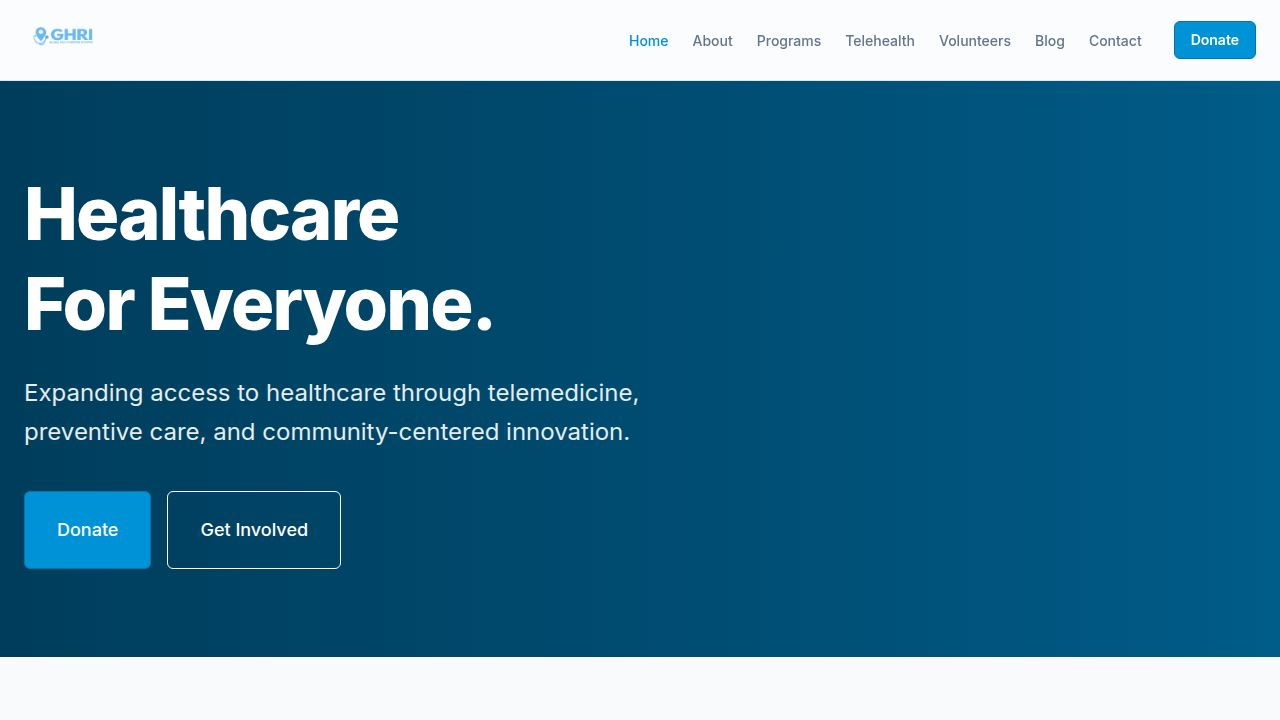
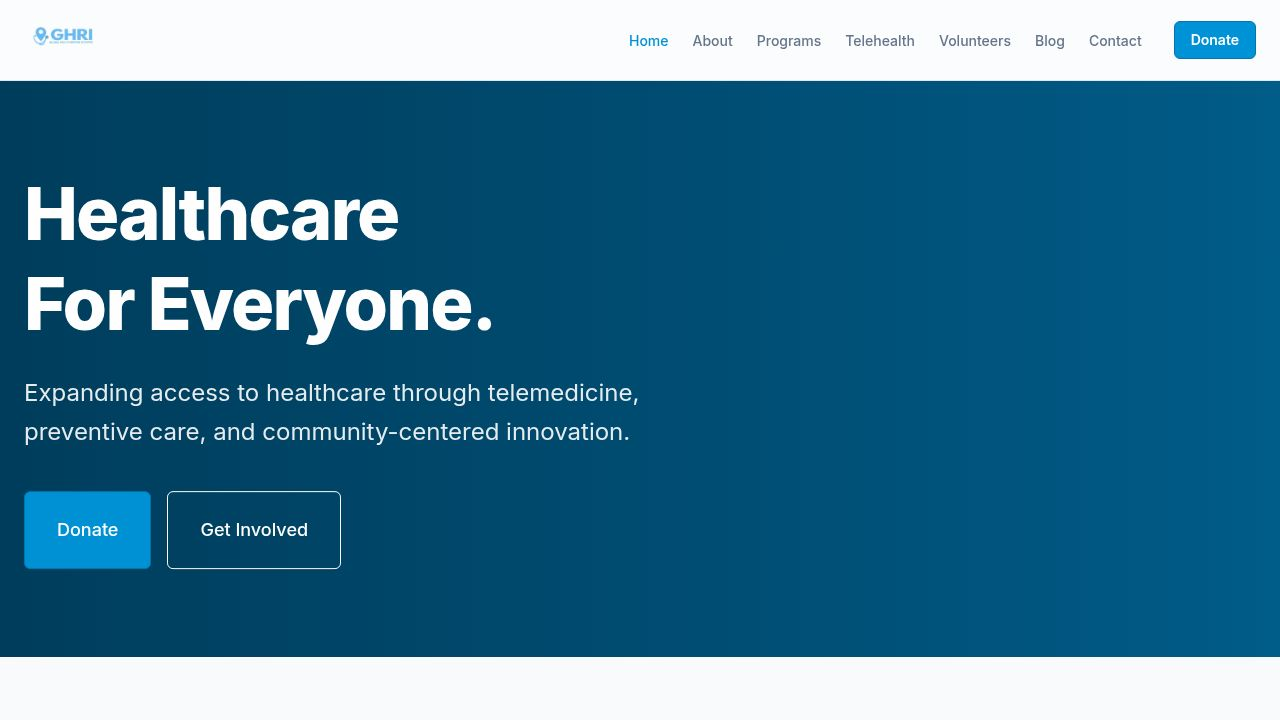
Update volunteer button to redirect to the volunteer sign-up page
Modify the href attribute of the Link component wrapping the "Volunteer" button on the home page from "/get-involved" to "/volunteers".

Replit-Commit-Author: Agent
Replit-Commit-Session-Id: 519b77ae-f93b-43f8-87ee-0258954cbde3
Replit-Commit-Checkpoint-Type: full_checkpoint
Replit-Commit-Event-Id: 7589ce43-25b3-4d6c-909f-560148d13e96
Replit-Commit-Screenshot-Url: https://storage.googleapis.com/screenshot-production-us-central1/812eb5c6-f2f7-4684-9937-612a52748455/519b77ae-f93b-43f8-87ee-0258954cbde3/5Bv1ZDT
Replit-Helium-Checkpoint-Created: true

diff --git a/artifacts/ghri-website/src/pages/home.tsx b/artifacts/ghri-website/src/pages/home.tsx
@@ -171,7 +171,7 @@ export default function Home() {
             <Link href="/donate">
               <Button size="lg" className="w-full sm:w-auto h-14 px-8 text-lg font-semibold">Donate</Button>
             </Link>
-            <Link href="/get-involved">
+            <Link href="/volunteers">
               <Button variant="outline" size="lg" className="w-full sm:w-auto h-14 px-8 text-lg font-semibold bg-transparent text-white border-white hover:bg-white hover:text-secondary">Volunteer</Button>
             </Link>
             <Link href="/contact">